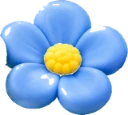
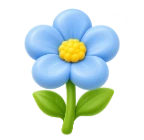
꽃밭 꽃 그림을 줄기 달린 6장으로 교체, 배치 고르게 조정

diff --git a/index.html b/index.html
@@ -7,7 +7,7 @@
 <link rel="icon" type="image/png" href="images/logo-192.png?v=1">
 <link rel="apple-touch-icon" href="images/logo-192.png?v=1">
 <title>오늘의 한걸음</title>
-<link rel="stylesheet" href="css/base.css?v=58">
+<link rel="stylesheet" href="css/base.css?v=60">
 </head>
 <body>
 
@@ -225,14 +225,14 @@
     <span>나의 이야기</span>
   </a>
 </nav>
-<script src="js/storage.js?v=58"></script>
-<script src="js/ui.js?v=58"></script>
-<script src="js/backup.js?v=58"></script>
-<script src="js/reminders.js?v=58"></script>
-<script src="js/settings.js?v=58"></script>
-<script src="js/areas/wellliving.js?v=58"></script>
-<script src="js/areas/welldying.js?v=58"></script>
-<script src="js/areas/legacy.js?v=58"></script>
-<script src="js/app.js?v=58"></script>
+<script src="js/storage.js?v=60"></script>
+<script src="js/ui.js?v=60"></script>
+<script src="js/backup.js?v=60"></script>
+<script src="js/reminders.js?v=60"></script>
+<script src="js/settings.js?v=60"></script>
+<script src="js/areas/wellliving.js?v=60"></script>
+<script src="js/areas/welldying.js?v=60"></script>
+<script src="js/areas/legacy.js?v=60"></script>
+<script src="js/app.js?v=60"></script>
 </body>
 </html>

diff --git a/js/areas/wellliving.js b/js/areas/wellliving.js
@@ -211,13 +211,12 @@
       return box;
     }
     var spots = steps.map(function (st, i) {
-      return { area: st[0], x: 9 + ((i * 61 + 17) % 82), y: 50 + ((i * 37 + 11) % 40) };
+      return { area: st[0], x: 10 + ((i * 5 + 2) % 12) * 6.8, y: 68 + ((i * 7 + 1) % 3) * 12 };
     }).sort(function (a, b) { return a.y - b.y; });
     spots.forEach(function (o) {
-      var size = 34 + (o.y - 50) * 0.7;
+      var size = 36 + (o.y - 50) * 0.8;
       var f = h('span', { class: 'garden-flower', 'aria-hidden': 'true' }, [
-        h('span', { class: 'garden-stem' }),
-        h('img', { src: 'images/flower-' + o.area + '.webp?v=1', alt: '', width: '128', height: '128', decoding: 'async' })
+        h('img', { src: 'images/flower-' + o.area + '.webp?v=2', alt: '', width: '128', height: '128', decoding: 'async' })
       ]);
       f.style.left = o.x + '%';
       f.style.top = o.y + '%';

diff --git a/css/base.css b/css/base.css
@@ -380,3 +380,5 @@ h2{font-weight:800;color:var(--accent,var(--ink));font-size:1.1rem}
 .garden-flower img{display:block;width:100%;height:auto;position:relative;filter:drop-shadow(0 2px 2px rgba(30,80,30,.3))}
 .garden-stem{position:absolute;left:50%;top:70%;width:4px;height:70%;margin-left:-2px;background:#4f9a5a;border-radius:2px}
 .garden-seed{position:absolute;left:50%;top:72%;transform:translate(-50%,-50%);font-size:2.4rem}
+.garden-flower{transform:translate(-50%,-100%)}
+.garden-stem{display:none}

diff --git a/docs/licenses.md b/docs/licenses.md
@@ -21,3 +21,6 @@
 ## 꽃밭 그림 (images/flower-*.webp, images/garden-bg.webp)
 - 사용자(박민아)가 ChatGPT로 만든 꽃 그림(6색)과 초원 배경을 잘라 줄여서 사용. 위 그림들과 같은 조건으로 쓴다.
 
+
+- (수정) 꽃 그림은 사용자가 ChatGPT로 만든 줄기 달린 꽃 6장으로 교체함(2026-11-10).
+
